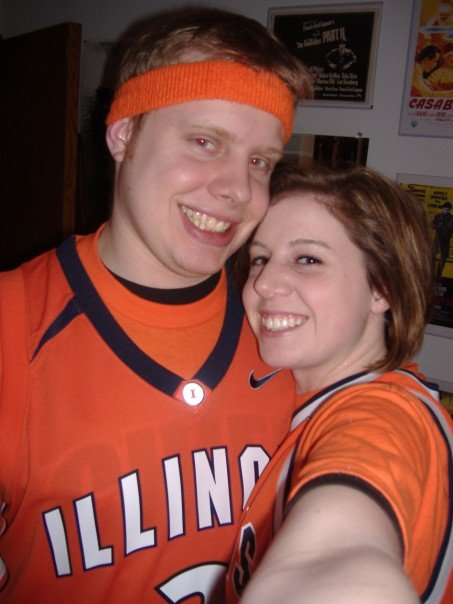
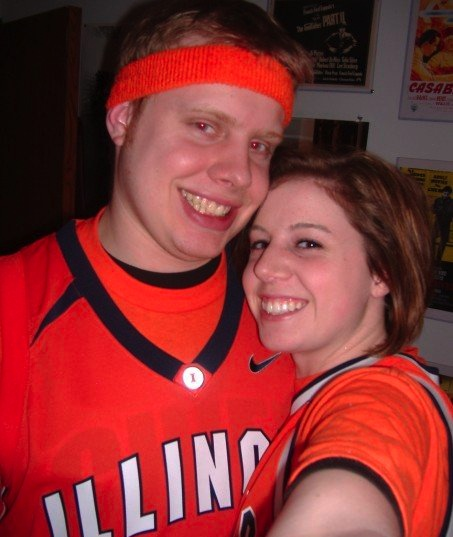
Cropping images and updating CSS.

diff --git a/style.css b/style.css
@@ -32,11 +32,11 @@ h1 {
 #topbar {
 	height: 80px;
 	clear: both;
-    padding-top: 10px;
+    padding-top: 0px;
 }
 
 #topbanner {
-    width: 600px;
+    width: 860px;
     margin-left: auto;
     margin-right: auto;
 	margin-bottom: 20px;
